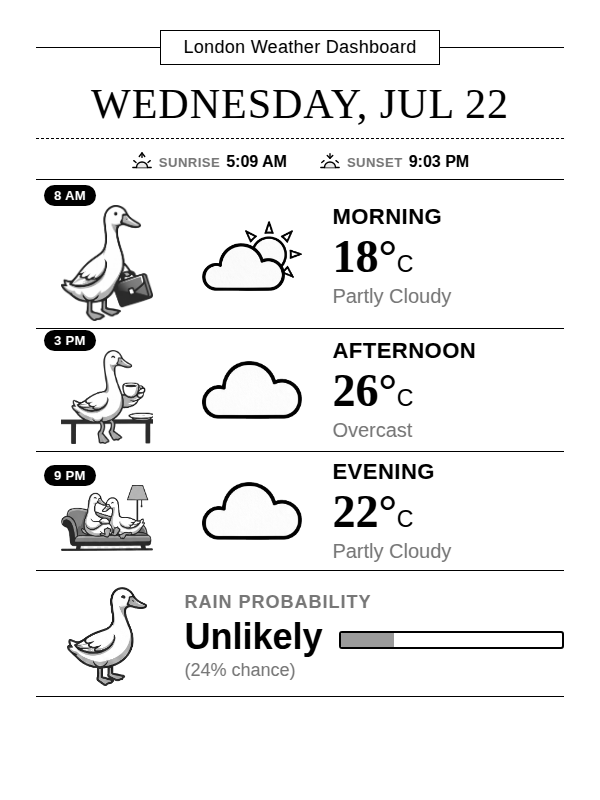
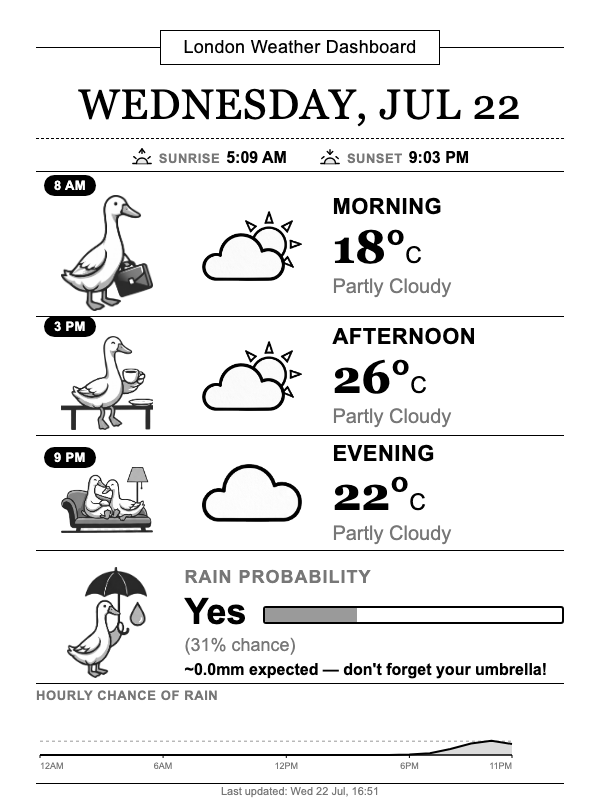
Add last-updated timestamp to dashboard footer
Lets us confirm each refresh cycle actually ran (useful while validating
the Kindle-side setup). Trimmed several margins/paddings slightly since
the worst-case content (rain chart + umbrella line) was already tuned
to exactly fill the 600x800 canvas and the new line pushed it over.

diff --git a/dashboard_template.html b/dashboard_template.html
@@ -14,7 +14,7 @@
   .page {
     width: 600px;
     height: 800px;
-    padding: 30px 36px;
+    padding: 30px 36px 10px;
     display: flex;
     flex-direction: column;
   }
@@ -59,7 +59,7 @@
     justify-content: center;
     align-items: center;
     gap: 32px;
-    padding: 6px 0;
+    padding: 2px 0;
   }
   .sun-time { display: flex; align-items: center; gap: 6px; }
   .sun-time svg { width: 22px; height: 22px; }
@@ -82,7 +82,7 @@
   .row {
     display: flex;
     align-items: center;
-    padding: 7px 0;
+    padding: 5px 0;
     border-bottom: 1px solid #000000;
   }
 
@@ -186,8 +186,8 @@
     margin-top: 5px;
   }
   .rain-chart-row {
-    margin-top: 8px;
-    padding-top: 8px;
+    margin-top: 4px;
+    padding-top: 4px;
     border-top: 1px solid #000000;
   }
   .rain-chart-label {
@@ -200,6 +200,13 @@
   .footer-line {
     border-top: 1px solid #000000;
     margin-top: 10px;
+  }
+  .last-updated {
+    font-size: 11px;
+    line-height: 1;
+    color: #777777;
+    text-align: center;
+    margin-top: 2px;
   }
 </style>
 </head>
@@ -239,6 +246,7 @@
   {{RAIN_CHART}}
 
   <div class="footer-line"></div>
+  <div class="last-updated">Last updated: {{LAST_UPDATED}}</div>
 
 </div>
 </body>

diff --git a/weather.py b/weather.py
@@ -225,6 +225,7 @@ html = (
     .replace("{{RAIN_SUB}}", rain_sub)
     .replace("{{UMBRELLA}}", umbrella_html)
     .replace("{{RAIN_CHART}}", rain_chart_html)
+    .replace("{{LAST_UPDATED}}", now.strftime("%a %d %b, %H:%M"))
 )
 
 rendered_path = HERE / "dashboard_rendered.html"